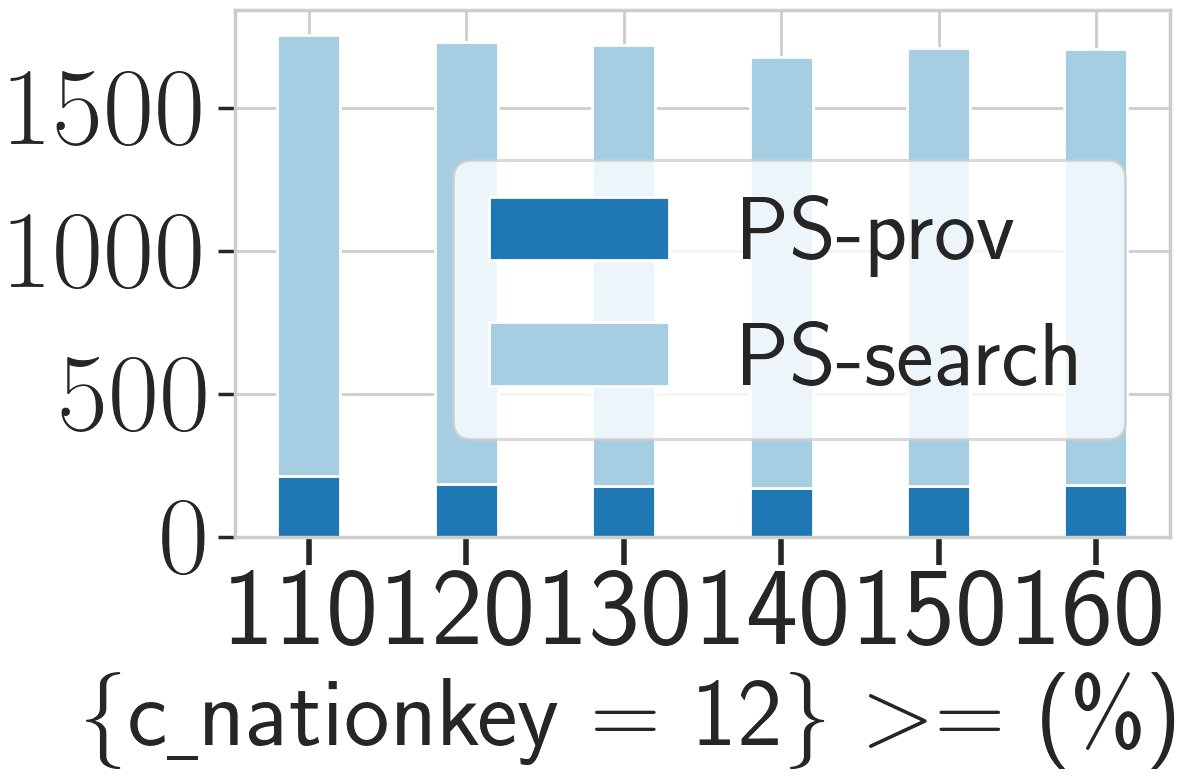
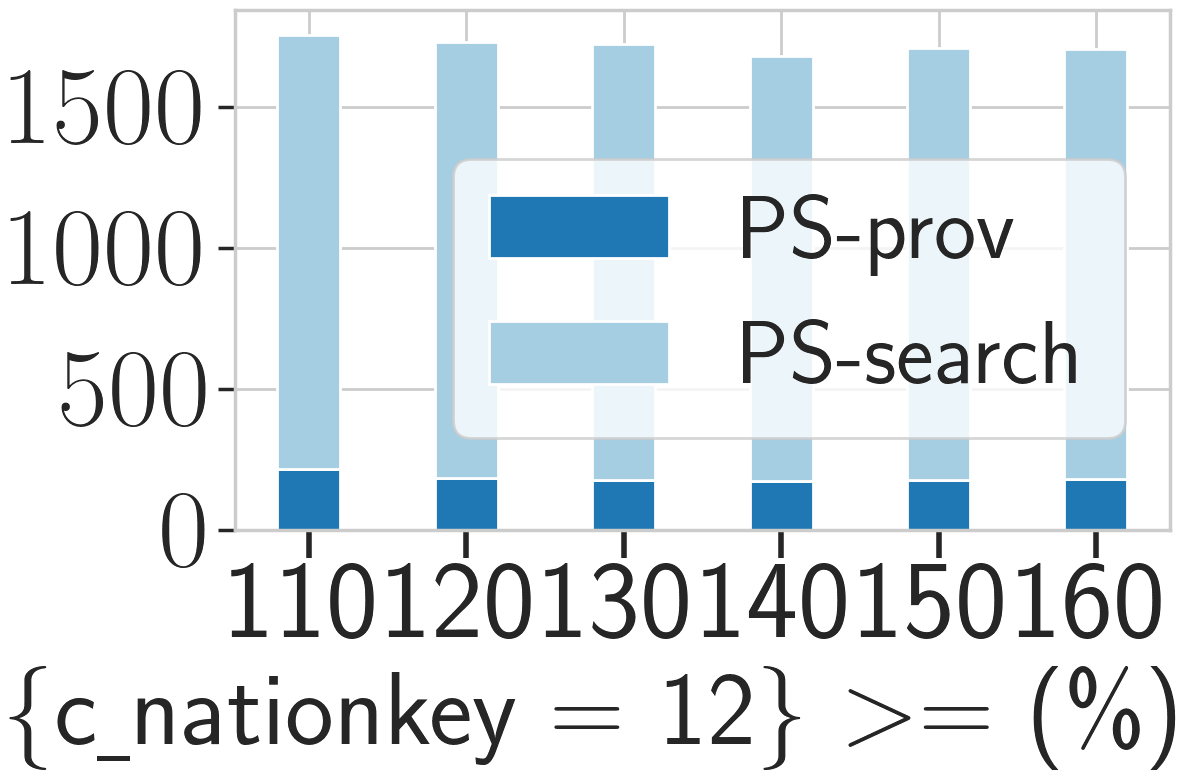
fix fig font size

diff --git a/Experiment/TPCH/10G/constraint_change/q3_refine/fig.py b/Experiment/TPCH/10G/constraint_change/q3_refine/fig.py
@@ -82,8 +82,8 @@ def run(query, size, constraint):
     plt.xticks(np.arange(0, 6), x_list, rotation=0, fontsize=80)
     plt.yticks(fontsize=80, weight='bold')
 
-    plt.xlabel(r'\{c\underline{ }nationkey = 12\} $>=$ (\%)', fontsize=70,
-               weight='bold').set_position((0.43, -0.1))
+    plt.xlabel(r'\{c\underline{ }nationkey = 12\} $>=$ (\%)', fontsize=75,
+               weight='bold').set_position((0.39, -0.1))
     plt.legend(loc='upper right', bbox_to_anchor=(1, 0.8), fontsize=65, ncol=1)
     plt.tight_layout()
     fig_path = "constraint_change_q" + str(query) + "_" + size + "_" + constraint + ".png"
